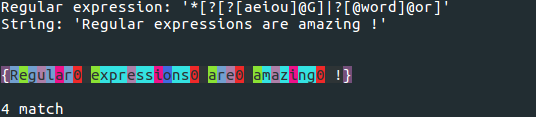
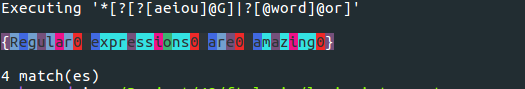
Rename ft_regex to ft_lexiq

diff --git a/lexiq_interpreter/main.c b/lexiq_interpreter/main.c
@@ -9,7 +9,7 @@
 /*
 ** The usage is printed if the required argument are not provided.
 */
-#define USAGE_STR "Usage: ./lexiq [-t] [-s subject] [-e expression] [-i file] ...\n"
+#define USAGE_STR "Usage: ./lexiq [-tv] [-s subject] [-e expression] [-i file] ...\n"
 
 static int	getoptions(char ***argv, char **subject, char **expr);
 
@@ -44,6 +44,9 @@ int main(int argc, char **argv)
 		/* Set the 'MAIN' rule 'transparent' by setting its id to -2. */
 		((t_lq_func *)main_ptr)->id = -2;
 	}
+
+	if (options & 3)
+		ft_printf("Executing '%s'\n\n", expr);
 
 	if (expr && subject)
 	{
@@ -83,7 +86,7 @@ static int	getoptions(char ***argv, char **subject, char **expr)
 	/* We jump the program name, as the ft_getopt function assumes that it is not a part of the array. */
 	++(*argv);
 	options = 0;
-	while (ft_getopt(argv, "s.1e.1i.1t;subject.1;expression.1;import.1;tree", &opt) != OPT_END)
+	while (ft_getopt(argv, "s.1e.1i.1tv;subject.1;expression.1;import.1;tree", &opt) != OPT_END)
 	{
 		/* If the option is unknown or if its arguments are missing, we exit. */
 		if (opt.ret == OPT_UNKNOWN || opt.ret == OPT_MISSING)
@@ -115,6 +118,8 @@ static int	getoptions(char ***argv, char **subject, char **expr)
 		/* If the '-t' option is met, enable the second bit of `options` */
 		else if (opt.c == 't' || (opt.c == '-' && *opt.clong == 't'))
 			options |= 2;
+		else if (opt.c == 'v')
+			options |= 4;
 	}
 	return (options);
 }
